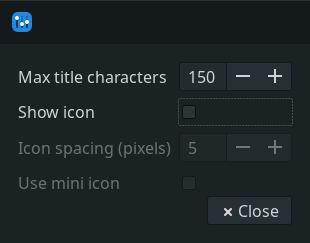
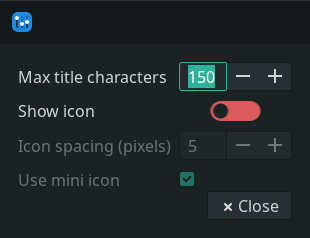
Change show_icon_check_button to switch

diff --git a/src/wintitle-dialogs.c b/src/wintitle-dialogs.c
@@ -45,6 +45,15 @@ gboolean wintitle_plugin_bind_toggle_value_to(GtkToggleButton *toggle, GObject *
 	return value;
 }
 
+gboolean wintitle_plugin_bind_switch_value_to(GtkSwitch *switch_, GObject *object, const gchar *property) {
+	gboolean value;
+	g_object_get(object, property, &value, NULL);
+	gtk_switch_set_active(switch_, value);
+	g_object_bind_property(G_OBJECT(switch_), "active", G_OBJECT(object), property,
+	                       G_BINDING_BIDIRECTIONAL | G_BINDING_SYNC_CREATE);
+	return value;
+}
+
 void wintitle_plugin_configure_response(GtkWidget *dialog, gint response, XfcePanelPlugin *panel_plugin) {
 	g_object_set_data(G_OBJECT(panel_plugin), "dialog", NULL);
 	xfce_panel_plugin_unblock_menu(panel_plugin);
@@ -84,13 +93,13 @@ void wintitle_plugin_configure(XfcePanelPlugin *panel_plugin) {
 	gtk_grid_attach(GTK_GRID(grid), widget, 1, 0, 1, 1);
 
 	// show-icon
-	GtkWidget *show_icon_toggle = gtk_check_button_new_with_label("");
+	GtkWidget *show_icon_switch = gtk_switch_new();
 	gboolean show_icon =
-	    wintitle_plugin_bind_toggle_value_to(GTK_TOGGLE_BUTTON(show_icon_toggle), G_OBJECT(plugin), "show-icon");
+	    wintitle_plugin_bind_switch_value_to(GTK_SWITCH(show_icon_switch), G_OBJECT(plugin), "show-icon");
 	label = gtk_label_new("Show icon");
 	gtk_label_set_xalign(GTK_LABEL(label), 0);
 	gtk_grid_attach(GTK_GRID(grid), label, 0, 1, 1, 1);
-	gtk_grid_attach(GTK_GRID(grid), show_icon_toggle, 1, 1, 1, 1);
+	gtk_grid_attach(GTK_GRID(grid), show_icon_switch, 1, 1, 1, 1);
 
 	// spacing
 	widget = gtk_spin_button_new_with_range(SPACING_MIN, SPACING_MAX, 1.0);
@@ -100,21 +109,21 @@ void wintitle_plugin_configure(XfcePanelPlugin *panel_plugin) {
 	gtk_grid_attach(GTK_GRID(grid), label, 0, 2, 1, 1);
 	gtk_grid_attach(GTK_GRID(grid), widget, 1, 2, 1, 1);
 
-	g_object_bind_property(G_OBJECT(show_icon_toggle), "active", G_OBJECT(widget), "sensitive", G_BINDING_DEFAULT);
-	g_object_bind_property(G_OBJECT(show_icon_toggle), "active", G_OBJECT(label), "sensitive", G_BINDING_DEFAULT);
+	g_object_bind_property(G_OBJECT(show_icon_switch), "active", G_OBJECT(widget), "sensitive", G_BINDING_DEFAULT);
+	g_object_bind_property(G_OBJECT(show_icon_switch), "active", G_OBJECT(label), "sensitive", G_BINDING_DEFAULT);
 	gtk_widget_set_sensitive(widget, show_icon);
 	gtk_widget_set_sensitive(label, show_icon);
 
 	// use-mini-icon
-	widget = gtk_check_button_new_with_label("");
+	widget = gtk_check_button_new();
 	wintitle_plugin_bind_toggle_value_to(GTK_TOGGLE_BUTTON(widget), G_OBJECT(plugin), "use-mini-icon");
 	label = gtk_label_new("Use mini icon");
 	gtk_label_set_xalign(GTK_LABEL(label), 0);
 	gtk_grid_attach(GTK_GRID(grid), label, 0, 3, 1, 1);
 	gtk_grid_attach(GTK_GRID(grid), widget, 1, 3, 1, 1);
 
-	g_object_bind_property(G_OBJECT(show_icon_toggle), "active", G_OBJECT(widget), "sensitive", G_BINDING_DEFAULT);
-	g_object_bind_property(G_OBJECT(show_icon_toggle), "active", G_OBJECT(label), "sensitive", G_BINDING_DEFAULT);
+	g_object_bind_property(G_OBJECT(show_icon_switch), "active", G_OBJECT(widget), "sensitive", G_BINDING_DEFAULT);
+	g_object_bind_property(G_OBJECT(show_icon_switch), "active", G_OBJECT(label), "sensitive", G_BINDING_DEFAULT);
 	gtk_widget_set_sensitive(widget, show_icon);
 	gtk_widget_set_sensitive(label, show_icon);
 
